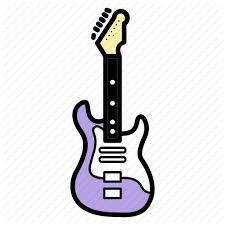
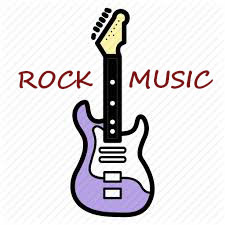
update my website. Cover guitar image

Changed region(s): [[0.56, 0.3111, 0.9644, 0.4044], [0.0622, 0.3111, 0.4356, 0.4044]]

diff --git a/section5/index.html b/section5/index.html
@@ -8,7 +8,7 @@
 </head>
 <body>
     <header>
-        <h1><img src="guitar.jpg" alt="guitar">Rock Music World</h1>
+        <img src="guitar.jpg" alt="guitar">
     </header>
     <nav>
         <a href="index.html">Home</a><span>&nbsp;&#47;</span>
@@ -21,7 +21,7 @@
         </ul> -->
     </nav>
     <section>
-        <h1>The best Rocks</h1>
+        <h1>Top 3 Best Rock Songs</h1>
         <ol>
             <li>                
                 &quot;Whole Lotta Love&quot; by <em>Led Zeppelin</em><br><br>
